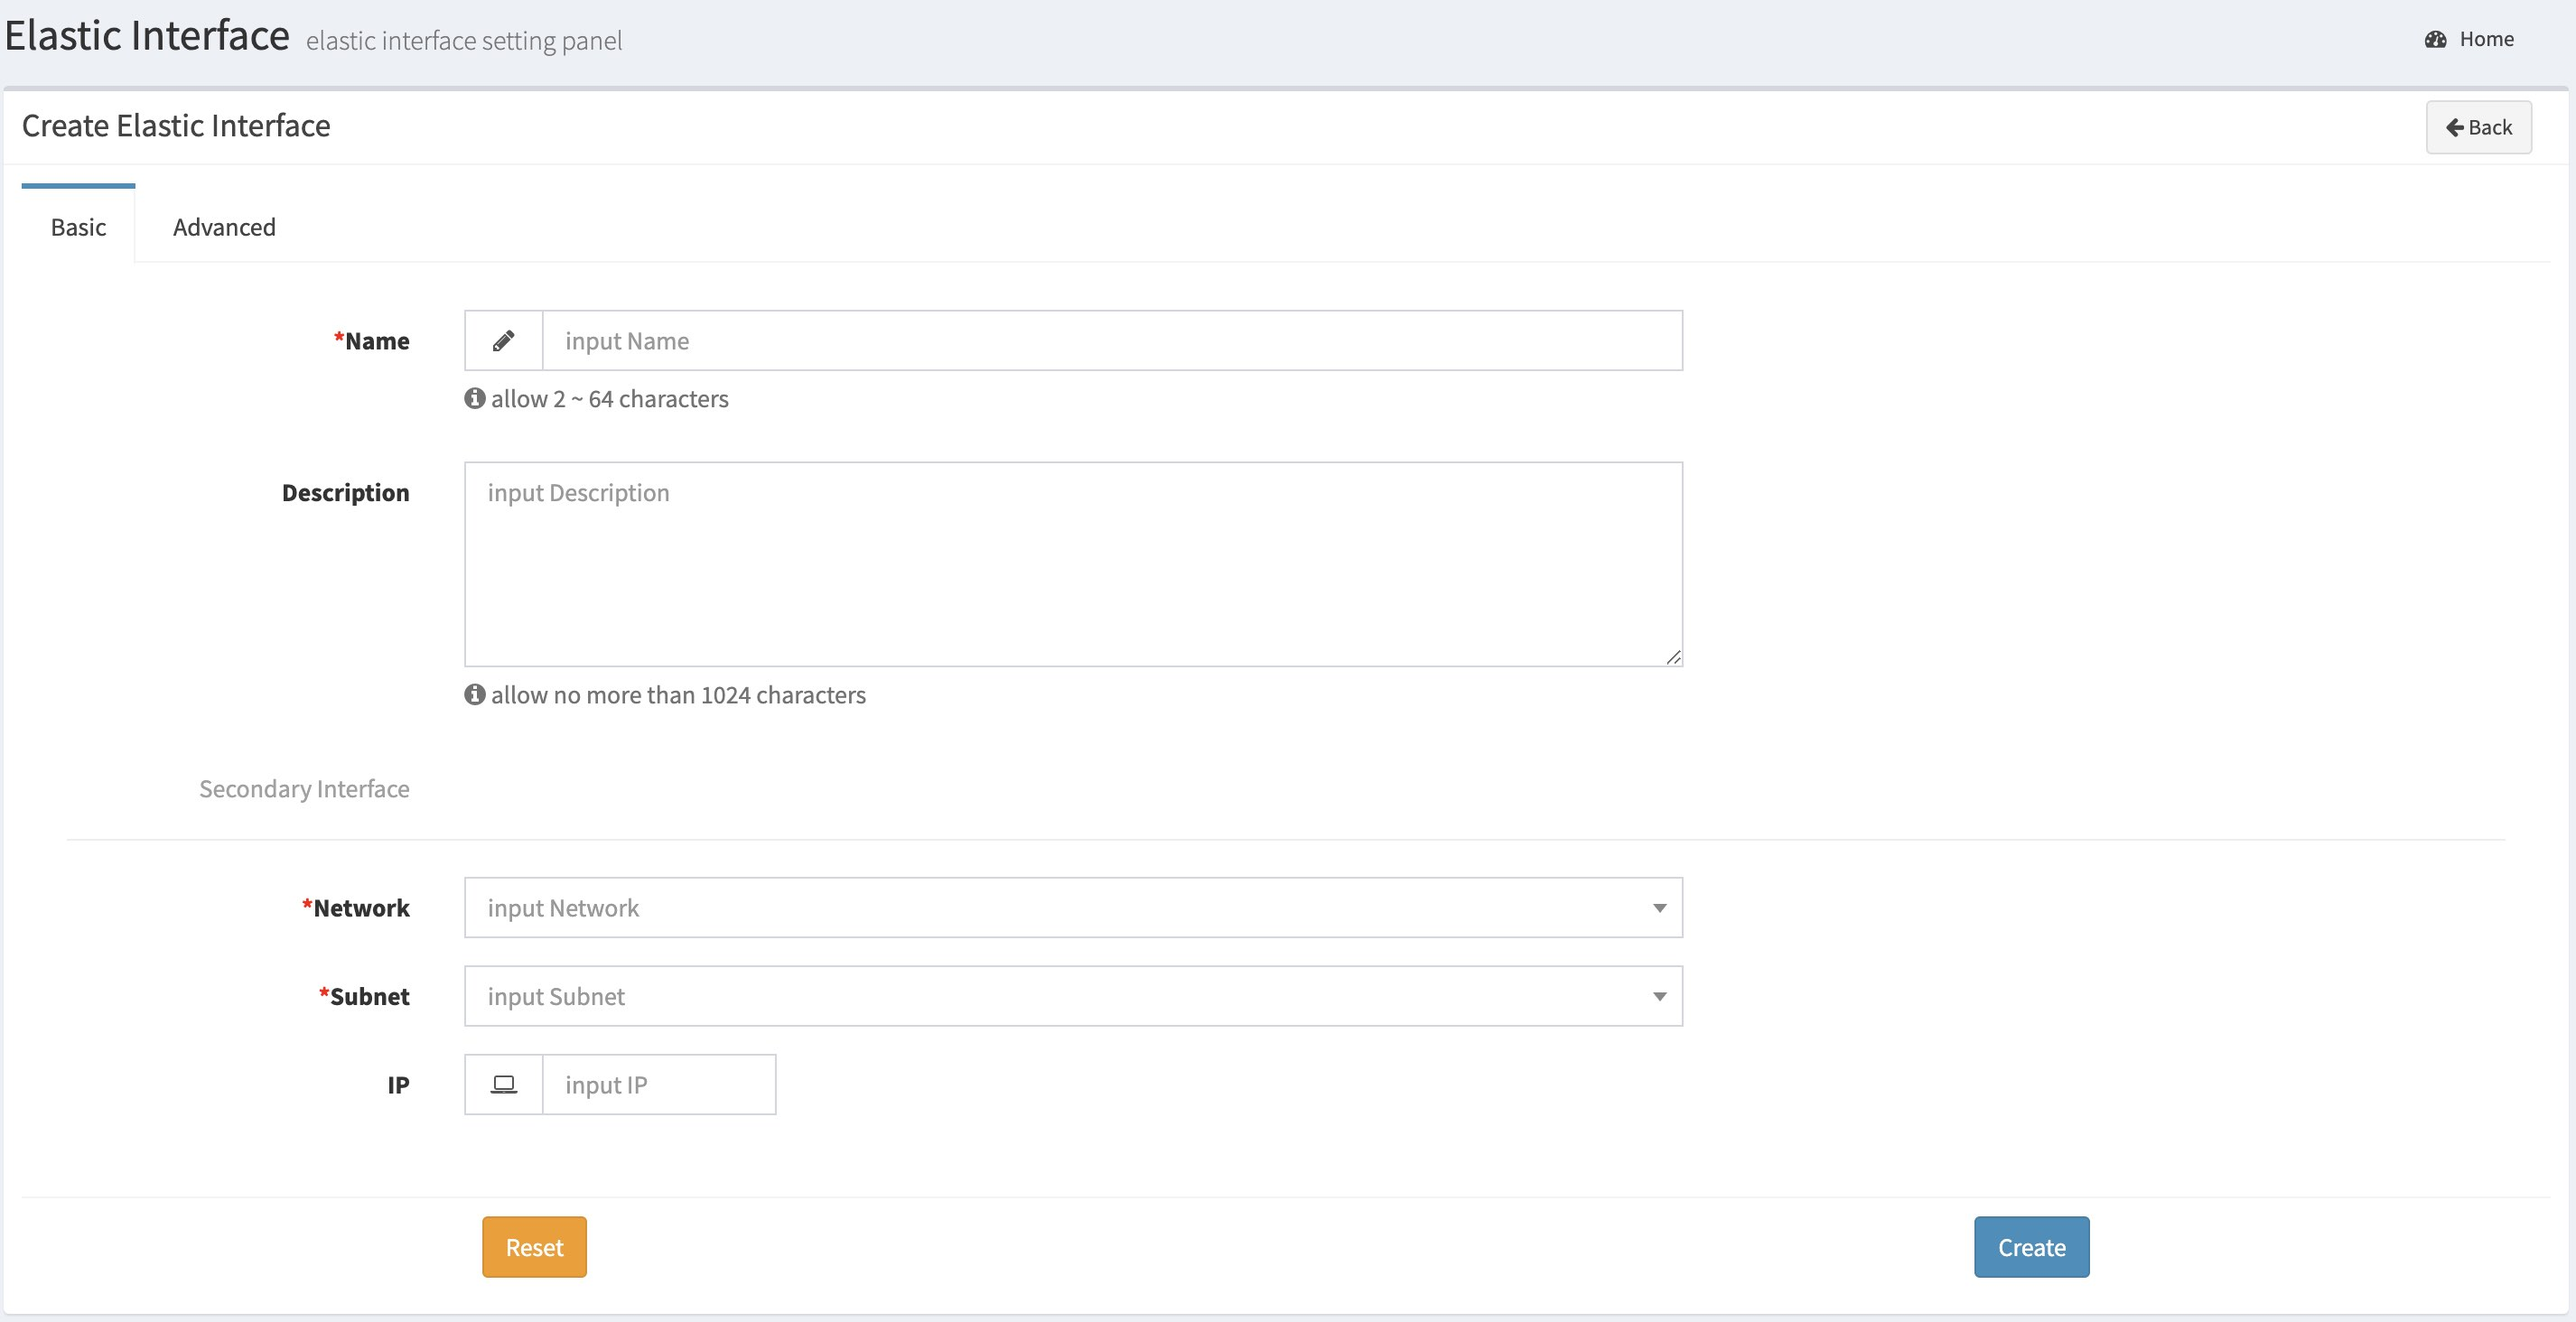
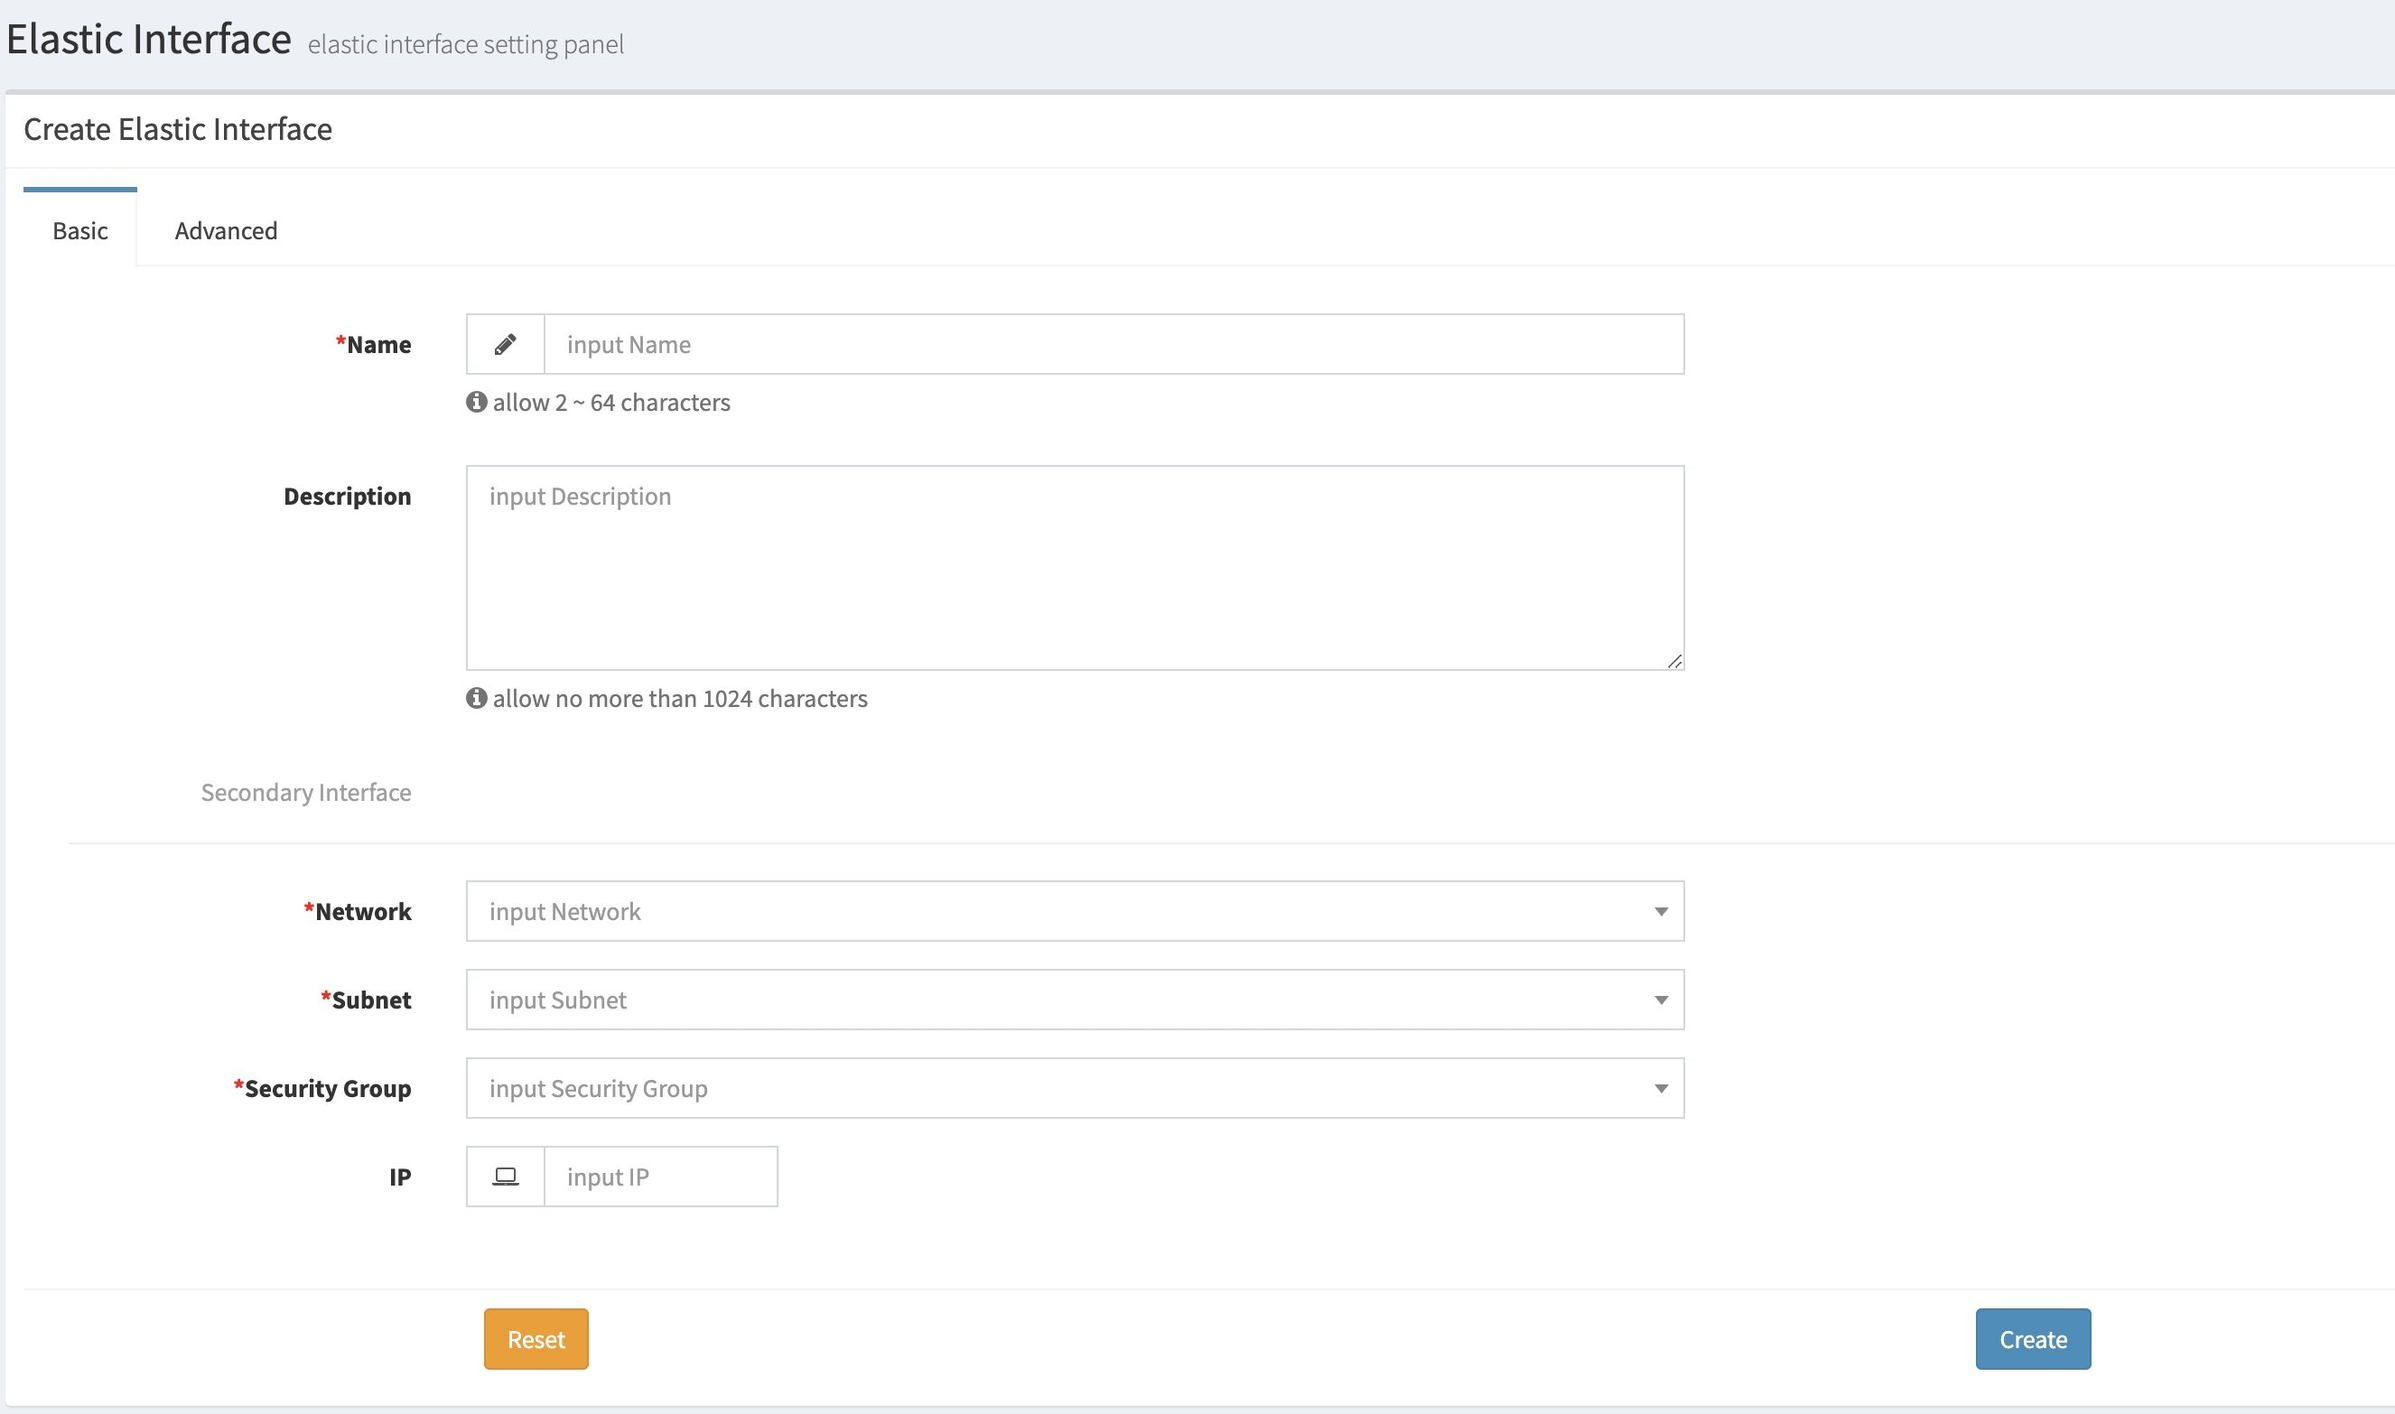
update

diff --git a/content/en/docs/Usage/WebUI/Compute/vm/_index.md b/content/en/docs/Usage/WebUI/Compute/vm/_index.md
@@ -54,6 +54,7 @@ virtual machine's operation logs
   * (Optional) Choose a bootable image (can be searched by image bucket type, format and OS type)，if no bootable image selected，you must add a bootable CDRom as the primary boot device in the "Add Virtual Hardware" tab, otherwise there is no bootable device for the virtual machine to startup.
   * Choose a newwork
   * Choose a subnet
+  * Choose a security group
 
 {{% imgproc newvmgeneral Fit "1000x1500" %}}
 {{% /imgproc %}}
@@ -85,6 +86,7 @@ virtual machine's operation logs
   * Input NIC's name 
   * Select a network 
   * Select a subnet 
+  * Select a security group
   
 **Note**: Up to 16 network interfaces can be added to the virtual machine
 {{% imgproc newvm_nic Fit "1000x1500" %}}

diff --git a/content/zh/docs/Usage/WebUI/Compute/vm/_index.md b/content/zh/docs/Usage/WebUI/Compute/vm/_index.md
@@ -54,6 +54,7 @@ weight: 2
   * (可选)选择一个启动镜像（可以从镜像源、镜像格式和操作系统类型中过滤选择），如果不选择一个镜像给启动盘，则需要在"添加虚拟设备"页中设置启动光盘，否则为无操作系统启动。
   * 选择一个网络
   * 选择一个子网 
+  * 选择一个安全组
 
 {{% imgproc newvmgeneral Fit "1000x1500" %}}
 {{% /imgproc %}}
@@ -84,6 +85,7 @@ weight: 2
   * 网卡名称
   * 选择网络
   * 选择子网
+  * 选择安全组
 {{% imgproc newvm_nic Fit "1000x600" %}}
 {{% /imgproc %}}
 

diff --git a/content/en/docs/Usage/WebUI/Network/enic/_index.md b/content/en/docs/Usage/WebUI/Network/enic/_index.md
@@ -39,6 +39,7 @@ network interface's operation logs
   * (Optional) input description
   * Choose a newwork
   * Choose a subnet
+  * Choose a security group
   * (Optional) Input an IP address
   
 {{% imgproc nic_new Fit "1000x400" %}}

diff --git a/content/zh/docs/Usage/WebUI/Network/enic/_index.md b/content/zh/docs/Usage/WebUI/Network/enic/_index.md
@@ -39,6 +39,7 @@ weight: 2
   * (可选)描述
   * 选择网络
   * 选择子网
+  * 选择安全组
   * (可选)IP地址
   
 {{% imgproc nic_new Fit "1000x400" %}}
